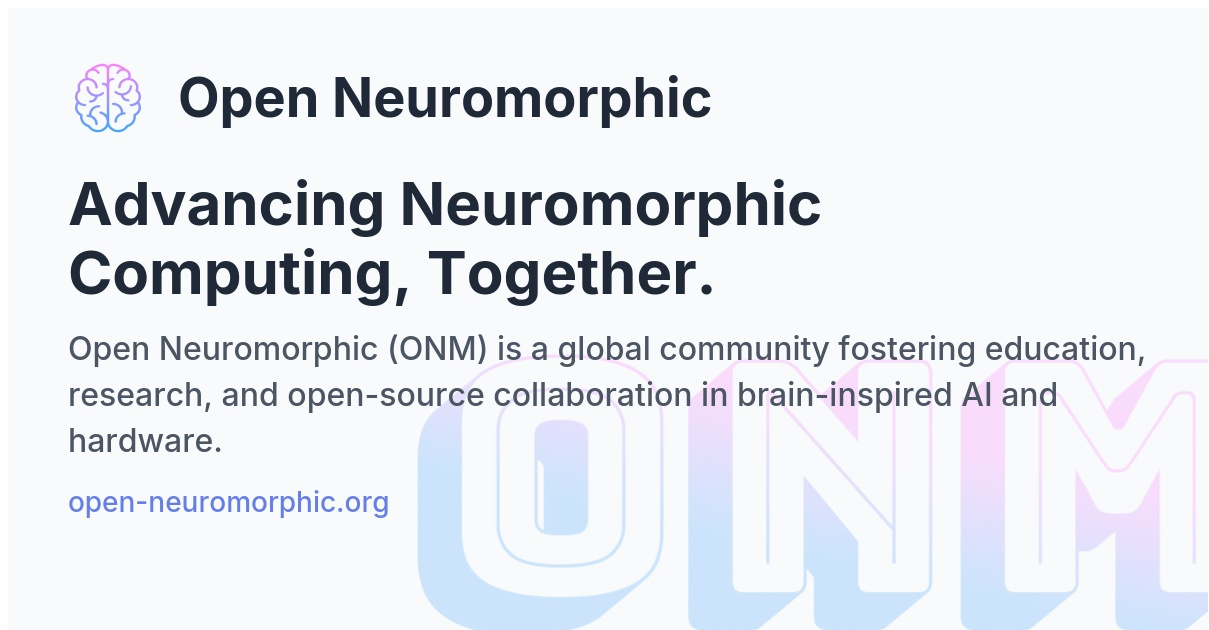
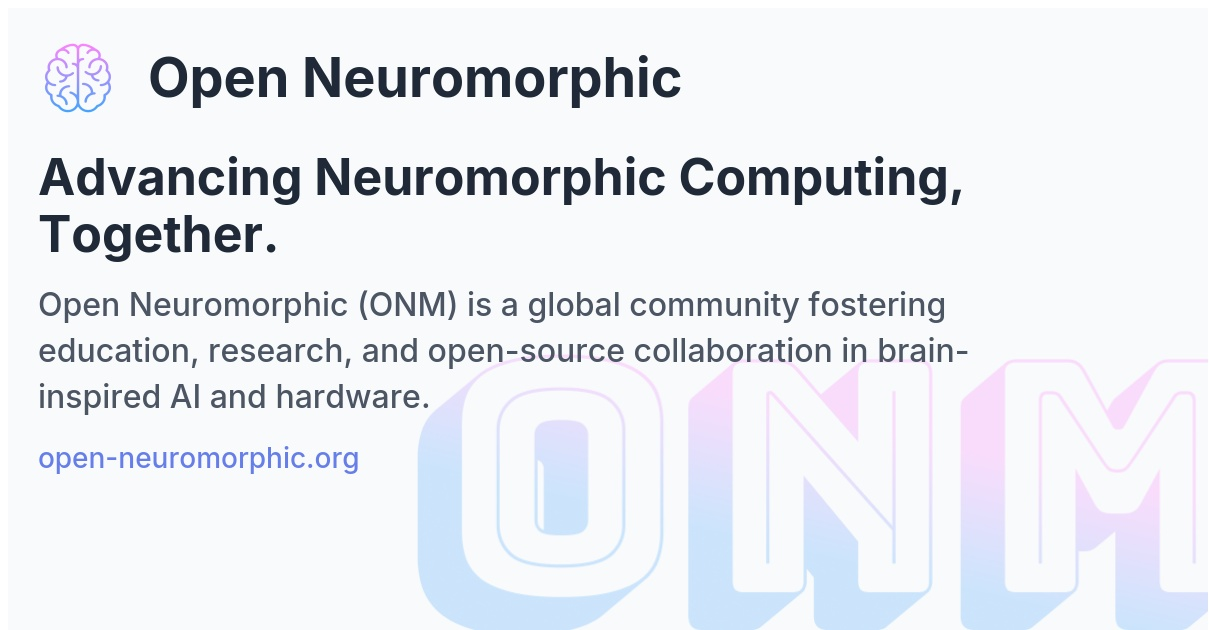
template updates for og-images

diff --git a/assets/og-template/template.html b/assets/og-template/template.html
@@ -31,14 +31,12 @@
 
     /* The main content card, also absolutely positioned */
     .container {
-      position: absolute;
       z-index: 2; /* On top of the watermark */
-      width: 1200px;
-      height: 630px;
-      padding: 50px 60px;
-      box-sizing: border-box;
-      display: flex; /* Flexbox for internal alignment is fine */
-      flex-direction: column;
+      position: absolute;
+      top: 30px;
+      left: 30px;
+      width: 950px;
+      height: 550px;
     }
 
     .main-content {
@@ -80,13 +78,13 @@
     }
 
     .title {
-      font-size: 60px;
+      font-size: 50px;
       font-weight: 700;
       line-height: 1.15;
       color: #1f2937;
       margin: 0 0 20px 0;
       display: -webkit-box;
-      -webkit-line-clamp: 2;
+      -webkit-line-clamp: 3;
       -webkit-box-orient: vertical;
       overflow: hidden;
       text-overflow: ellipsis;
@@ -100,7 +98,7 @@
       color: #4b5563;
       margin: 0 0 20px 0;
       display: -webkit-box;
-      -webkit-line-clamp: 4;
+      -webkit-line-clamp: 3;
       -webkit-box-orient: vertical;
       overflow: hidden;
       text-overflow: ellipsis;
